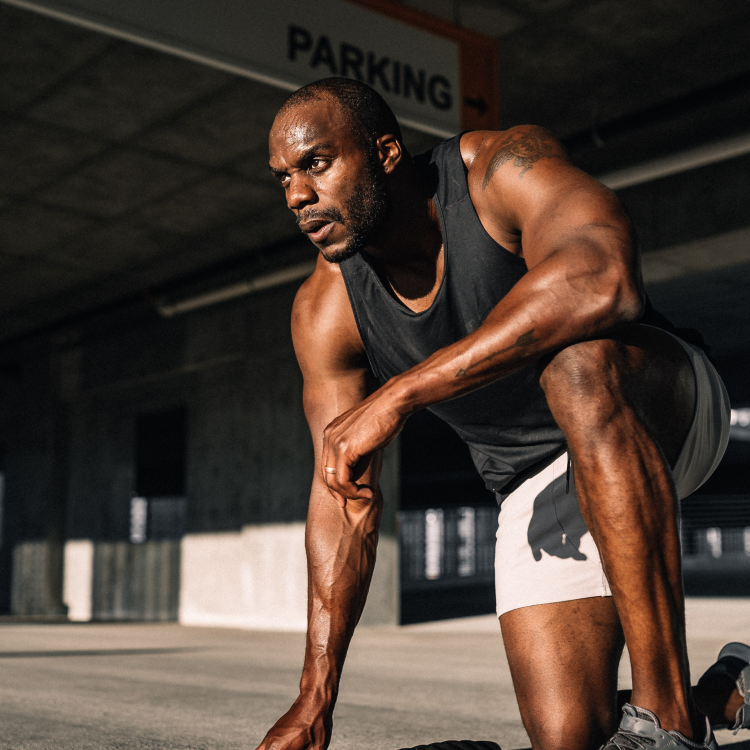
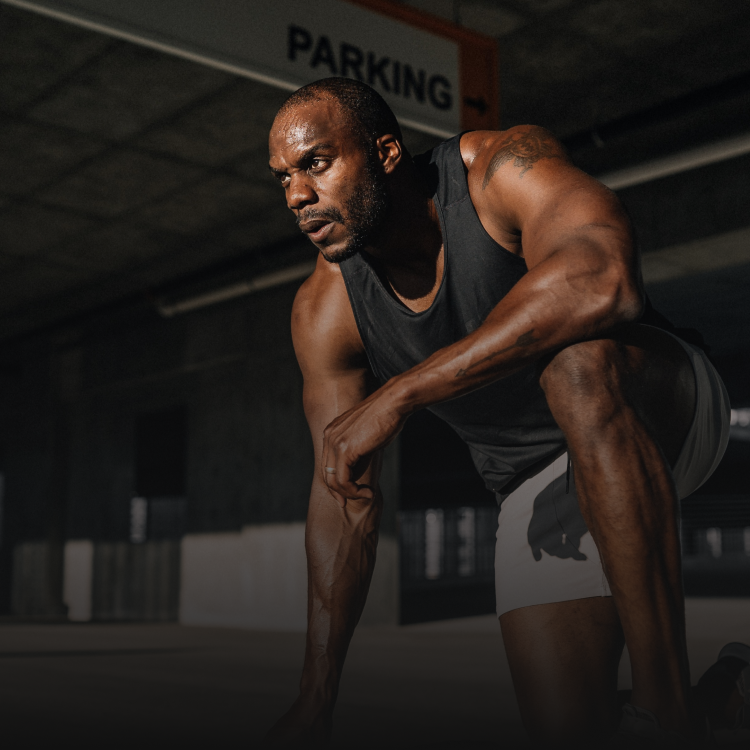
new image

diff --git a/lib/main.dart b/lib/main.dart
@@ -38,22 +38,10 @@ class _LoginPageState extends State<LoginPage> {
                 image: AssetImage('assets/images/login_page_bg.png'),
                 fit: BoxFit.cover,
               ),
-              Container(
-                decoration: BoxDecoration(
-                  gradient: LinearGradient(
-                    begin: Alignment.center,
-                    end: Alignment.bottomCenter,
-                    colors: [
-                      const Color(0x00000000),
-                      const Color(0xCC000000),
-                    ],
-                  ),
-                ),
-              ),
               Positioned(
                 bottom: 50,
                 left: 34.42,
-                height: 89,
+                height: 125,
                 width: 261.78,
                 child: Column(
                   crossAxisAlignment: CrossAxisAlignment.start,
@@ -62,6 +50,7 @@ class _LoginPageState extends State<LoginPage> {
                       "Kirish",
                       textAlign: TextAlign.left,
                       style: TextStyle(
+                        fontWeight: FontWeight.bold,
                         color: Colors.white,
                         fontSize: 43.48,
                       ),
@@ -90,12 +79,6 @@ class _LoginPageState extends State<LoginPage> {
               crossAxisAlignment: CrossAxisAlignment.start,
               
               children: [
-                Text(
-                  "Telefon",
-                  style: TextStyle(
-                    color: Colors.grey,
-                  ),
-                ),
                 GestureDetector(
                   onTap: (){
                     FocusScopeNode currentFocus = FocusScope.of(context);
@@ -110,11 +93,11 @@ class _LoginPageState extends State<LoginPage> {
                       hintStyle: TextStyle(
                         color: Colors.grey,
                       ),
-                      hintText: "Telefon raqamingiz",
+                      hintText: "Telefon",
                     ),
                     keyboardType: TextInputType.numberWithOptions(decimal: true),
                     inputFormatters: [
-                      new FilteringTextInputFormatter.allow(RegExp("[0-9.]")),
+                      new FilteringTextInputFormatter.allow(RegExp("[0-9.+]")),
                     ],
                   ),
                 ),
